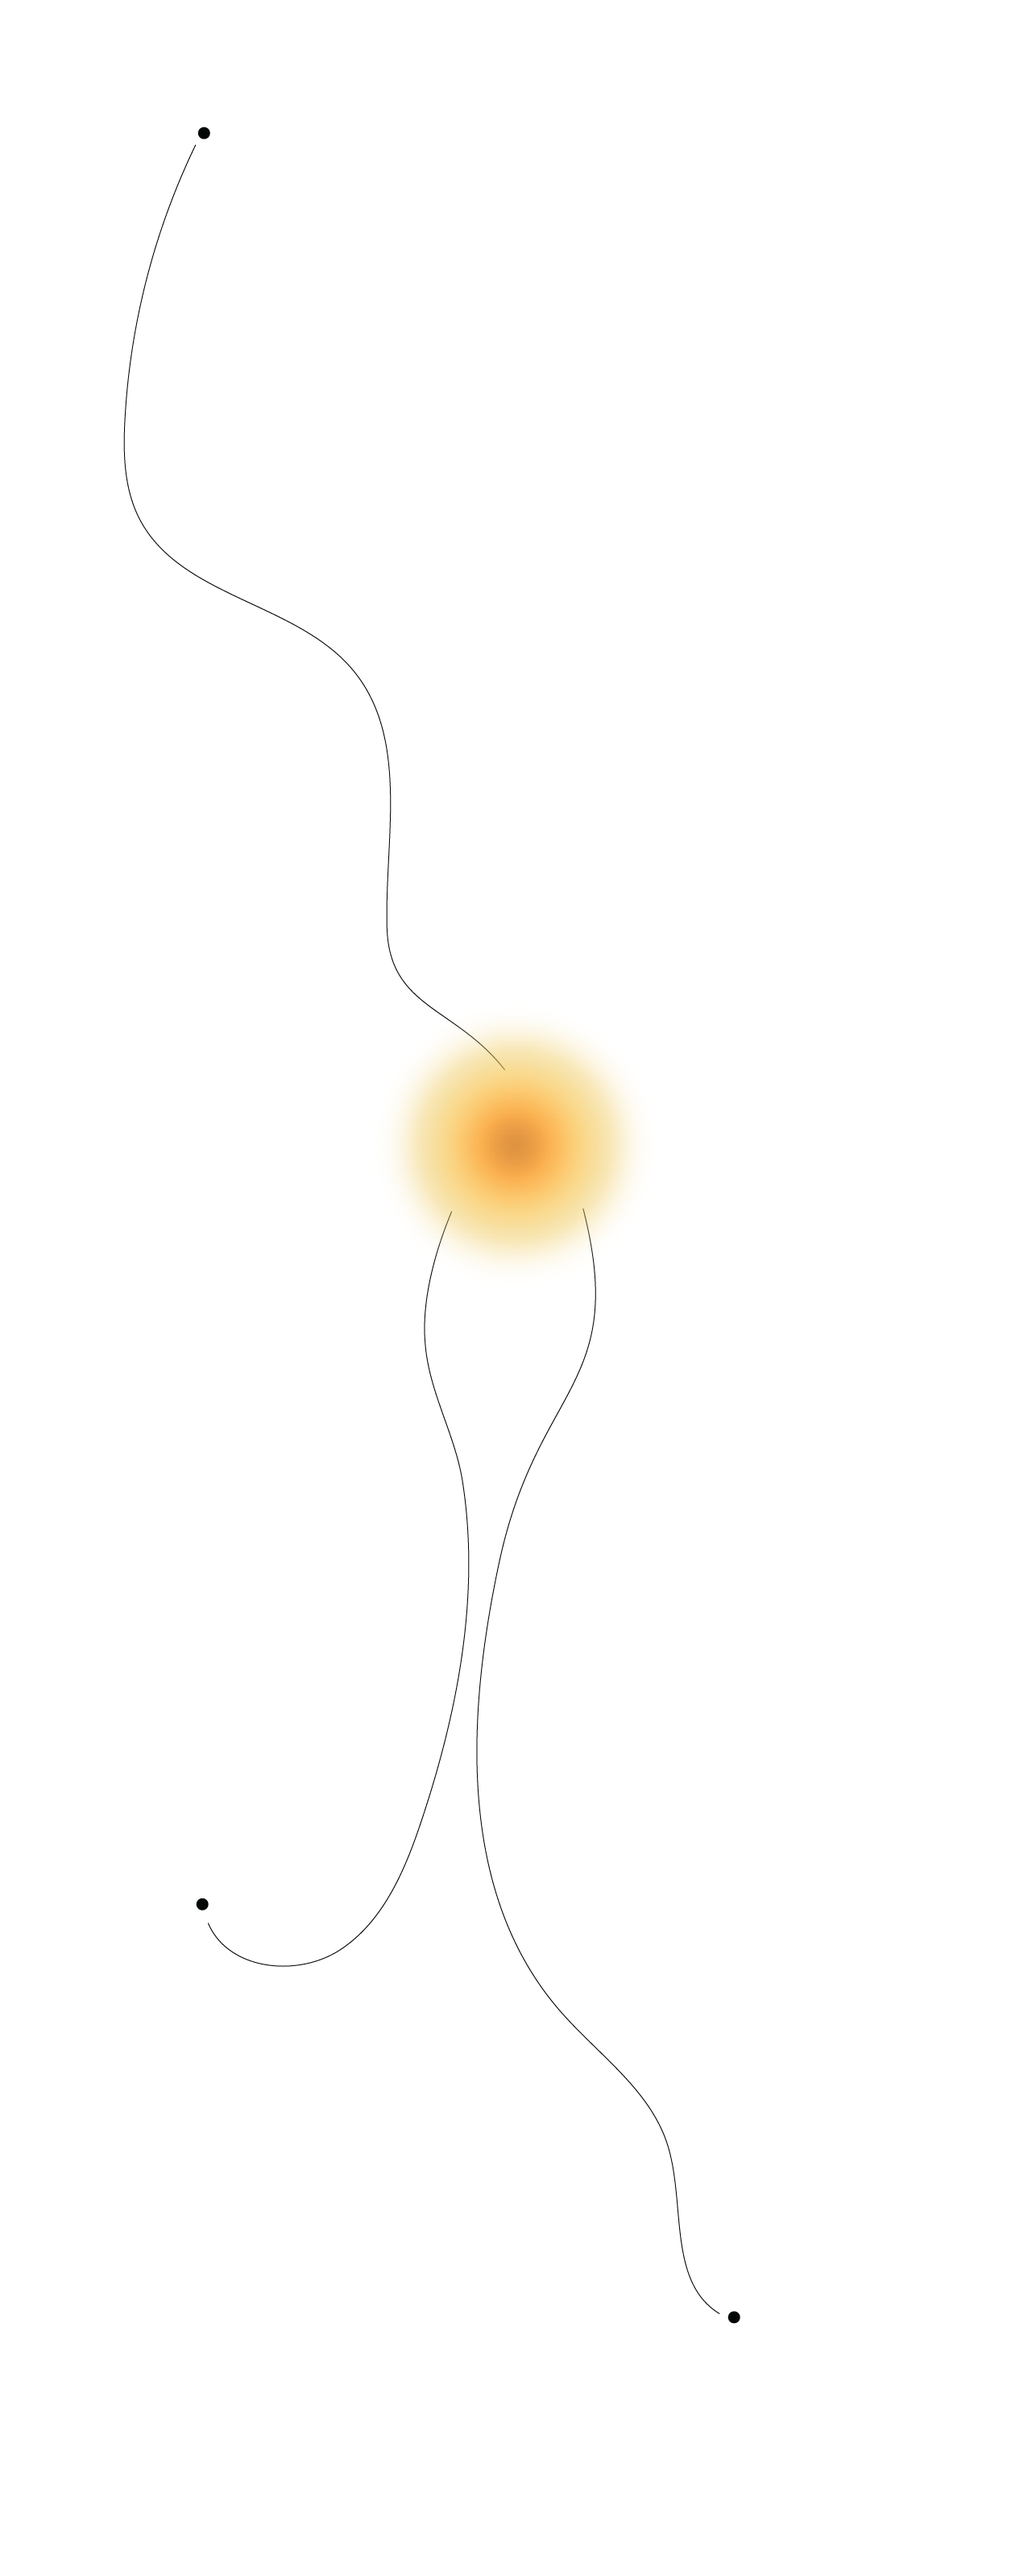
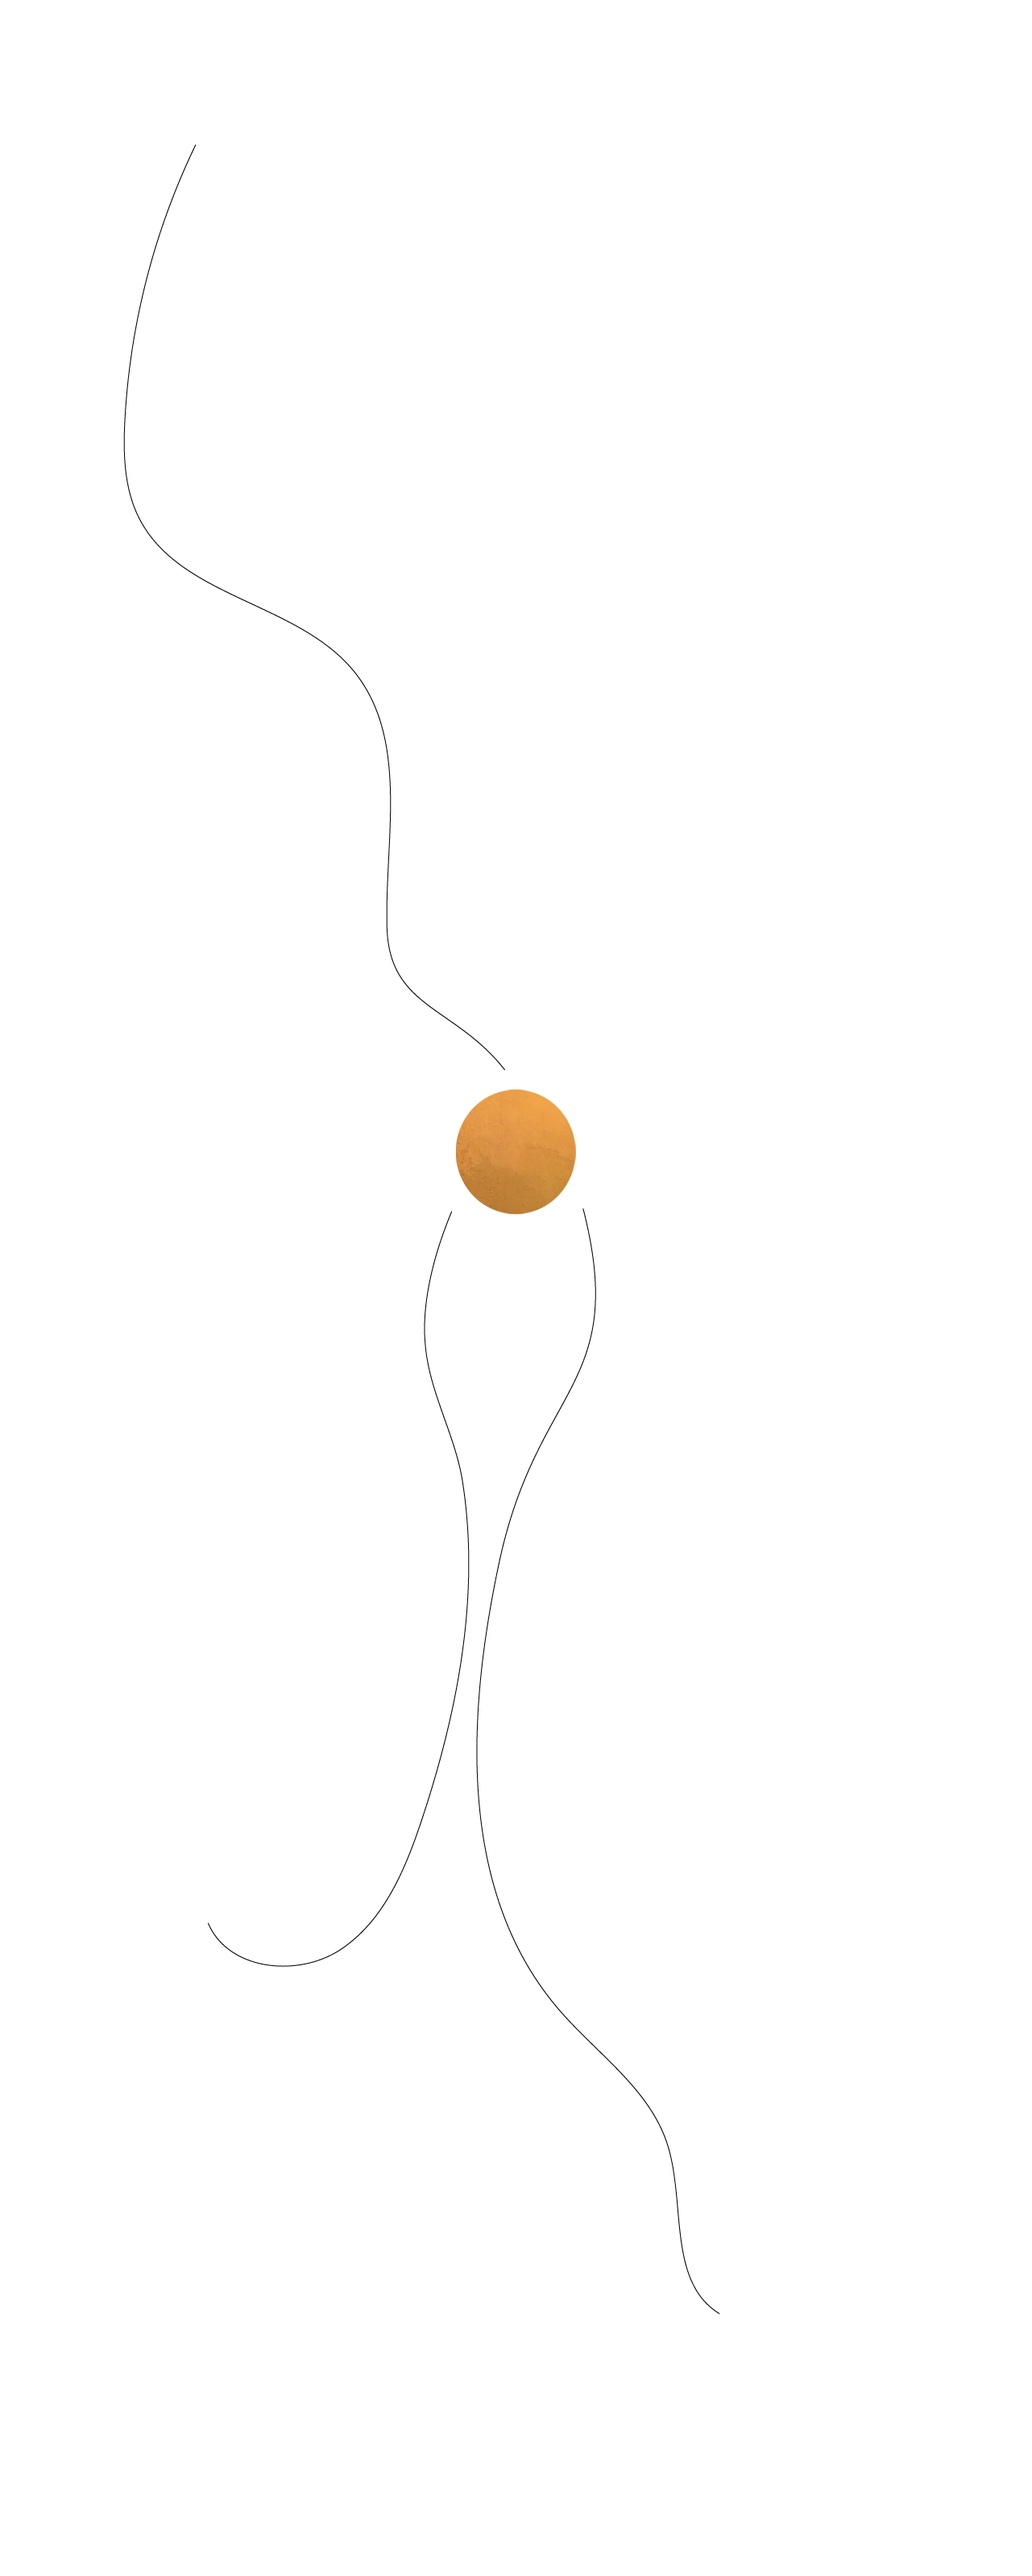
cambios

Changed region(s): [[0.3747, 0.4026, 0.6245, 0.4955]]

diff --git a/src/pages/main.view.js b/src/pages/main.view.js
@@ -21,9 +21,11 @@ const Main = () => {
                     </p>
                 </div>
 
+                <div className={styles.parrafoConFoto}>
                 <p className={styles.parrafo}>
                     Many years ago – I don’t remember exactly how many- I guided three men. They had a clear purpose and I had mine as well: to become their guide. These men had different ways to connect with me and receive my messages. The first one was a rich and recognized astronomer. He followed my movements through his cartographic skills. He was a great observer of the sky. The second one reached out from the bottom of his soul. Wondering in his inner world, he found the way to see my signals in the outer one.  And the third one, the most innocent one, was a man of intuition. Deep inside, he knew his journey had a purpose. He travelled without knowing where he would end up, letting himself be carried away by his heart, convinced that there was something invisible, a kind of magnet that took him to the places where he had to be.
                 </p>
+                </div>
 
                 <div className={styles.parrafoConFoto}>
                     <p className={styles.parrafoConFoto}>
@@ -34,34 +36,43 @@ const Main = () => {
                     <img className={styles.imgStar} src={foto}/>
                 </div>
 
-                <p className={styles.parrafo}>
-                    -Again? she asked while kissing his forehead.
-                </p>
+                <div className={styles.parrafoConFoto}>
+                    <p className={styles.parrafo}>
+                        -Again? she asked while kissing his forehead.
+                    </p>
+                </div>
 
-                <p className={styles.parrafo}>
-                    After a while, he came out with his body covered with towels. His white clothes hung ready as if they were actually waiting for him. He looked at the gold embroidery on the sleeves and remembered the clothes of his childhood. Pounding memories of the day his mother died came to his mind. Gaspar was playing when his father, broken in tears, hugged him. He told him that his mother and brother had not survived the procedure, but deep down he already knew.
-                    <br/>
-                    After dressing himself up, he decided to walk around the palace. The place was beautiful: a large and luminous building with the floor covered with colorful carpets and surrounded by gardens full of animals and smells. He looked at every detail around him and felt grateful for all the peaceful years spent with his wife and all the people that looked out for their welfare. He hugged his wife for a while in silence and then continued walking towards the room where he used to work on his documents. On the walls of his private room, there were huge drawings where he made traces connecting dots from the sky to Earth. And on the big central table there were giant charts and maps that Gaspar designed every morning and night of his life. He knew all about constellations, but his real passion was the moon: powerful and mysterious.
-                    <br/>
-                    I remember that special morning when he unfolded his most complete cartographic drawing. He translated the information he had visualized on the map and everything made sense. The point in the center of the triangle became a real location: an area to the west, more precisely, what today humans call the Zagros Mountains. Through calculations and with a little bit of intuition, he worked on the position that the stars would have during the indicated date. He counted the sunrises and concluded that it would take him almost a month to reach that location. He did not believe in coincidences and this is why he smiled with complicity when he realized that a great planetary conjunction was about to happen that given day.
-                </p>
+                <div className={styles.parrafoConFoto}>
+                    <p className={styles.parrafo}>
+                        After a while, he came out with his body covered with towels. His white clothes hung ready as if they were actually waiting for him. He looked at the gold embroidery on the sleeves and remembered the clothes of his childhood. Pounding memories of the day his mother died came to his mind. Gaspar was playing when his father, broken in tears, hugged him. He told him that his mother and brother had not survived the procedure, but deep down he already knew.
+                        <br/>
+                        After dressing himself up, he decided to walk around the palace. The place was beautiful: a large and luminous building with the floor covered with colorful carpets and surrounded by gardens full of animals and smells. He looked at every detail around him and felt grateful for all the peaceful years spent with his wife and all the people that looked out for their welfare. He hugged his wife for a while in silence and then continued walking towards the room where he used to work on his documents. On the walls of his private room, there were huge drawings where he made traces connecting dots from the sky to Earth. And on the big central table there were giant charts and maps that Gaspar designed every morning and night of his life. He knew all about constellations, but his real passion was the moon: powerful and mysterious.
+                        <br/>
+                        I remember that special morning when he unfolded his most complete cartographic drawing. He translated the information he had visualized on the map and everything made sense. The point in the center of the triangle became a real location: an area to the west, more precisely, what today humans call the Zagros Mountains. Through calculations and with a little bit of intuition, he worked on the position that the stars would have during the indicated date. He counted the sunrises and concluded that it would take him almost a month to reach that location. He did not believe in coincidences and this is why he smiled with complicity when he realized that a great planetary conjunction was about to happen that given day.
+                    </p>
+                </div>
 
                 <img className={styles.img} src={fondo}/>
 
-                <p className={styles.separador}>
-                    He took some days to double-check his calculations and to make a small travel version of his map. He also went out to the village to buy the best camel he could find and prepared all the elements he would travel with: containers for water, clothes and gold.
-                    <br/>
-                    When the day of his departure arrived, he kissed his wife, and she hugged him back with enthusiasm. For the first time, Gaspar looked hesitant. He was afraid to leave her alone and not ever return back home. But she was calm and loving. She looked him in the eye and dropped a few words in his ear. He smiled, reached out to his pocket, and found a piece of paper. She didn’t let him read it. Not yet, she said. And with a smile on his face, Gaspar got on his camel and greeted all those who had come to wish him luck.
-                    <br/>
-                    Two weeks later, almost halfway there, he stopped by at a small house in the middle of nowhere. He was well received by an old man, who lived by himself. When Gaspar walked into the house, his eyes widened in surprise. On the walls he found drawings like the ones he made.
-                    <br/>
-                    The old man saw the rounded eyebrows on Gaspar’s face and immediately recognized that he was facing a man who understood him.
-                </p>
+                <div className={styles.parrafoConFoto}>
+                    <p className={styles.separador}>
+                        He took some days to double-check his calculations and to make a small travel version of his map. He also went out to the village to buy the best camel he could find and prepared all the elements he would travel with: containers for water, clothes and gold.
+                        <br/>
+                        When the day of his departure arrived, he kissed his wife, and she hugged him back with enthusiasm. For the first time, Gaspar looked hesitant. He was afraid to leave her alone and not ever return back home. But she was calm and loving. She looked him in the eye and dropped a few words in his ear. He smiled, reached out to his pocket, and found a piece of paper. She didn’t let him read it. Not yet, she said. And with a smile on his face, Gaspar got on his camel and greeted all those who had come to wish him luck.
+                        <br/>
+                        Two weeks later, almost halfway there, he stopped by at a small house in the middle of nowhere. He was well received by an old man, who lived by himself. When Gaspar walked into the house, his eyes widened in surprise. On the walls he found drawings like the ones he made.
+                        <br/>
+                        The old man saw the rounded eyebrows on Gaspar’s face and immediately recognized that he was facing a man who understood him.
+                    </p>
+                </div>
+                
+                <div className={styles.parrafoConFoto}>
+                    <p className={styles.parrafo}>
+                        -You are also an astronomer, right? he asked.
+                    </p>
+                </div>
 
-                <p className={styles.parrafo}>
-                    -You are also an astronomer, right? he asked.
-                </p>
-
+                <div className={styles.parrafoConFoto}>
                 <p className={styles.parrafo}>
                     There was no need to answer that question. They connected with each other right away. They spent the whole night talking, pooling everything they knew. And they laughed and got excited when they went outside to watch the moon. It got late and the man offered Gaspar to spend the night there, and he accepted.
                     <br/>
@@ -69,15 +80,21 @@ const Main = () => {
                     <br/>
                     The man, full of curiosity, asked if he could take a look at his map. Gaspar -proud and confident- spread the document over the table, waiting for the approval of an old astronomer. However, he began to laugh.
                 </p>
+                </div>
                 
+                <div className={styles.parrafoConFoto}>
                 <p className={styles.parrafo}>
                     - What are you talking about? You are crazy. There is no such star. All these calculations are so inaccurate!
                 </p>
+                </div>
 
+                <div className={styles.parrafoConFoto}>
                 <p className={styles.parrafo}>
                     Gaspar felt betrayed and disappointed by the old man who kept laughing and making fun of him. But he tried not to react and left the house without saying a word, confident of his calculations and my guide. He spent the next days following the merchant’s trading route and he could see, from afar, the peak of the mountains. The meeting point was nearby.
                 </p>
+                </div>
 
+                <div className={styles.parrafoConFoto}>
                 <p className={styles.parrafo}>
                     The second one, Balthazar, was also a great astronomer but before all else, he was a healer. He had learned about the cycles of life walking through the desert along with his grandfather, observing animals and plants and paying attention to Life. He spent his days in nature, playing with stones and crystals, looking for the hidden water in the heart of desert flowers. He created his own recipes. In his hands he carried consciously the gift of healing: he predicted the reactions of the body. He was always smiling, wondering between that silent gap of his body and his thought, where he could find all the answers.
                     <br/>
@@ -85,24 +102,33 @@ const Main = () => {
                     <br/>
                     One day, he heard my voice and recognized me right away. I was short and clear. I showed him the meeting point. I told him about the journey that Gaspar was making. I explained the story of Melchior. And I showed him on a map the best way to get to Bethlehem. It was when I told him they had to visit a newborn that Balthazar broke his silence:
                 </p>
+                </div>
 
+                <div className={styles.parrafoConFoto}>
                 <p className={styles.parrafo}>
                     - Why me?
                 </p>
+                </div>
 
+                <div className={styles.parrafoConFoto}>
                 <p className={styles.parrafo}>
                     - Because it is your purpose.
                 </p>
+                </div>
 
+                <div className={styles.parrafoConFoto}>
                 <p className={styles.parrafo}>
                     Not long after that, he left. The meeting point was waiting for him and it wasn’t far away from his home.
                 </p>
+                </div>
 
+                <div className={styles.parrafoConFoto}>
                 <p className={styles.parrafo}>
                     I guided Melchior through the so-called coincidences. He was a strong man born in Greece, close to Ephesus. It had been a long time since he had lost his family and his land due to an invasion. He was the only family member who survived and managed to escape. He travelled in search of something that he did not quite know what it was. He knew he had a mission to accomplish and he payed attention to signs and coincidences. Without recognizing me, he knew me and trusted me because I was nothing more than his own intuition. 
                     <br/>
                     These three wise men taught me how to communicate with people on Earth. So many times, so many, I heard people claim that I was just a shooting star, someone who vanished without a trace. Others called me the Star of Bethlehem. And the reason why I never felt the need to say my real name is because I have always believed that my name is not important, what really matters is the secret that lives in the story I am about to tell…
                 </p>
+                </div>
             </div>
 
         </div>

diff --git a/src/pages/main.module.css b/src/pages/main.module.css
@@ -18,25 +18,21 @@
     font-style: italic;
 }
 
-.img {
-    position: absolute;
-    top: 50%;
-    left: 50%;
-    height: 97%;
-    width: 103%;
-    transform: translate(-50%, -42%);
-    opacity: 0.3;
+p {
+    z-index: 1;
 }
 
 .main {
     width: 60%;
     margin: 0 auto;
     text-align: justify;  
+    z-index: 1;
 }
 
 .parrafoMain {
     display: flex;
     flex-direction: row;
+    z-index: 1;
 }
 
 .t {
@@ -48,17 +44,20 @@
 .separador {
     margin-top: 300px;
     font-family: 'BentModDisp';
+    z-index: 1;
 }
 
 .parrafo {
     margin-top: 70px;
     font-family: 'BentModDisp';
+    z-index: 1;
 }
 
 .parrafoConFoto {
     display: flex;
     flex-direction: row;
     font-family: 'BentModDisp';
+    z-index: 1;
 }
 
 .imgStar {
@@ -66,6 +65,18 @@
     height: 420px;
     padding: 10px;
     margin-top: 10px;
+    z-index: 1;
+}
+
+.img {
+    position: absolute;
+    top: 50%;
+    left: 50%;
+    height: 85%;
+    width: 110%;
+    transform: translate(-50%, -45%);
+    z-index: 0.1;
+    opacity: 0.9;
 }
 
 @media (max-width: 768px) {
